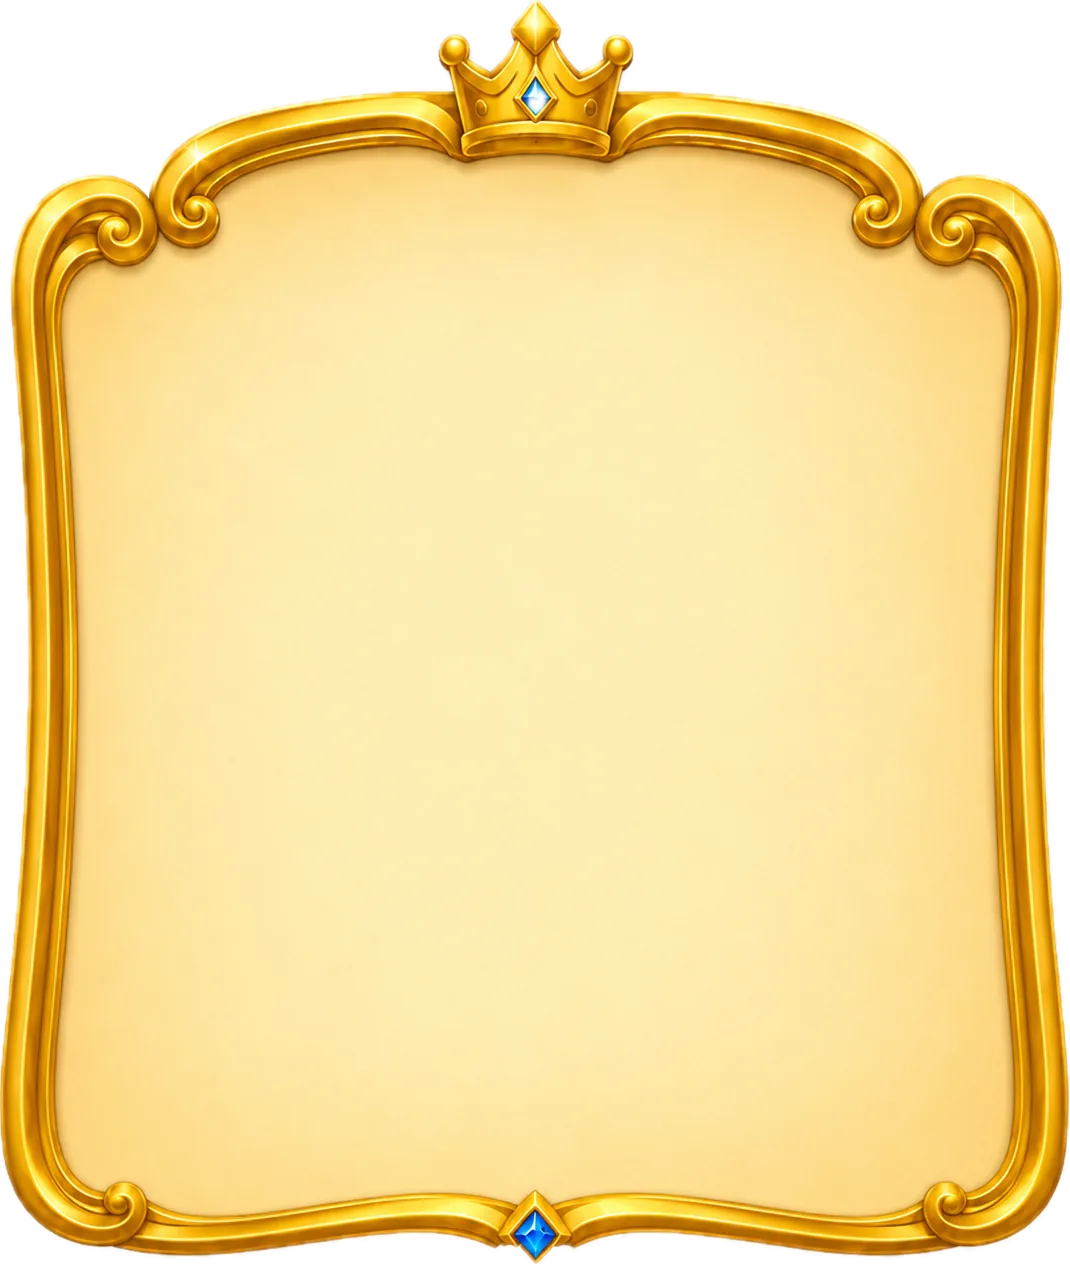
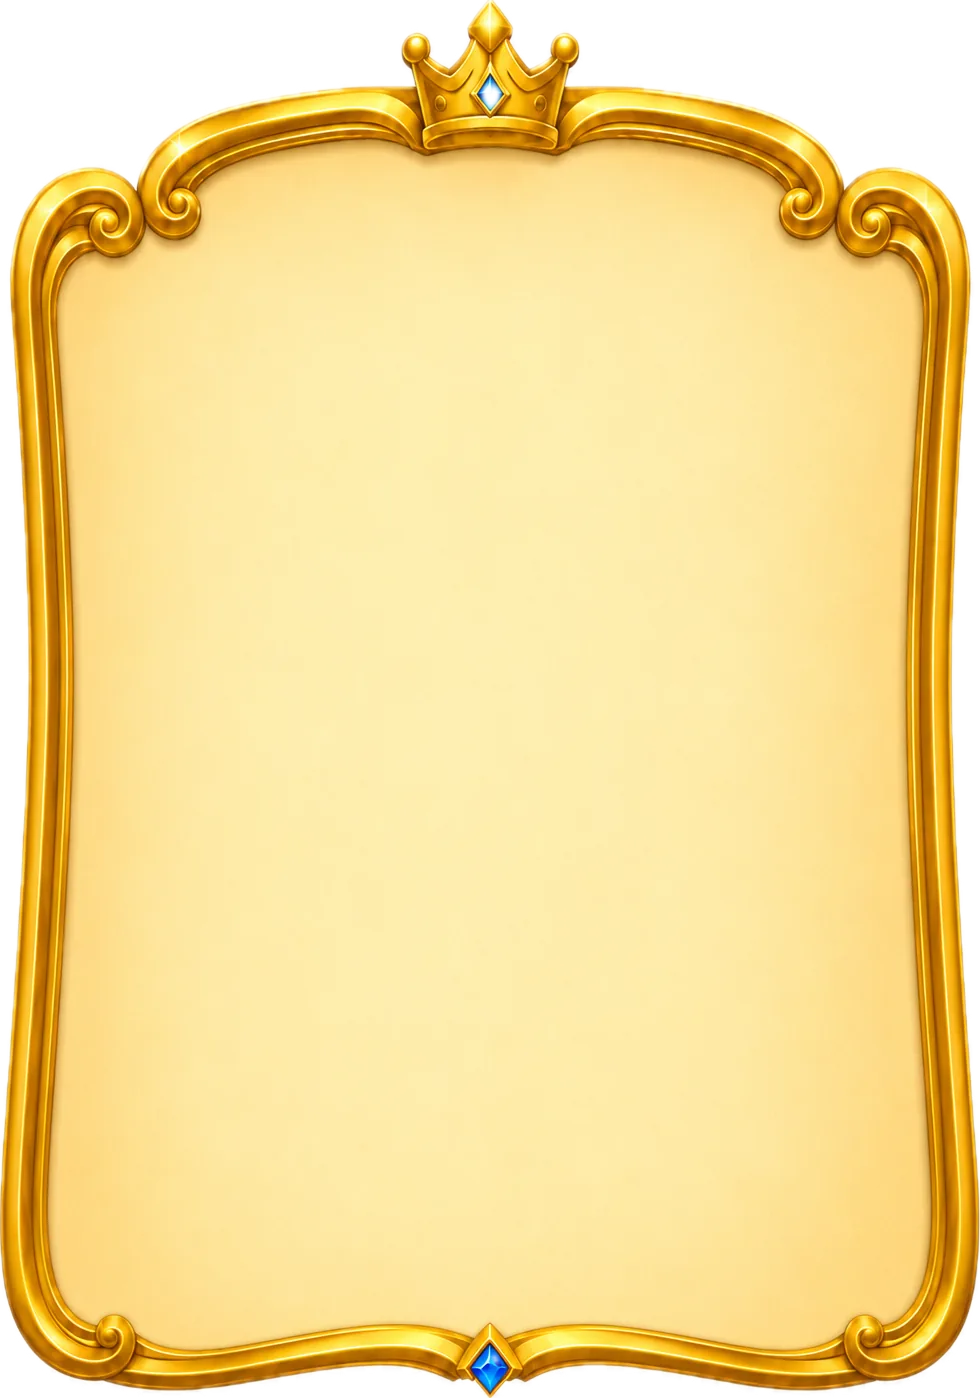
assets(landing): update frame asset to v3 proportions (980x1398)
Founder regenerated design/landing-slides/bg-slides.png again (was
1070x1264 in the previous commit). Re-optimized to .png+.webp+.avif,
updated slide-shell.tsx's aspect ratio and width-budget multiplier to
match (0.8465 -> 0.7010). Verified no scroll at 375x667, 390x844,
390x700; 21/21 tests, tsc clean.

Wolfcito 🐾 @akawolfcito

Changed region(s): [[0.0, 0.0, 1.0, 1.0]]

diff --git a/apps/landing/src/components/onboarding/slide-shell.tsx b/apps/landing/src/components/onboarding/slide-shell.tsx
@@ -5,10 +5,10 @@ import { MOBILE_SCENE_SRC, DESKTOP_SCENE_SRC, FRAME_SRC } from "@/lib/onboarding
 /**
  * Shared visual chrome for every onboarding state (4 slides + the
  * returning-visitor welcome): full-bleed scene behind a fixed-aspect-ratio
- * gold frame, matching the frame PNG's native 1070:1264 proportions (v2
- * asset, founder-updated 2026-07-04 — was 1018:1768, notably taller) so
- * its ornate border never distorts. Content scrolls inside the frame if
- * a slide's copy runs long, rather than the frame stretching to fit it.
+ * gold frame, matching the frame PNG's native 980:1398 proportions (v3
+ * asset, founder-updated 2026-07-04 — v1 was 1018:1768, v2 was 1070:1264)
+ * so its ornate border never distorts. Content scrolls inside the frame
+ * if a slide's copy runs long, rather than the frame stretching to fit it.
  */
 export function SlideShell({
   topSlot,
@@ -62,8 +62,8 @@ export function SlideShell({
         <div
           className="relative"
           style={{
-            aspectRatio: "1070 / 1264",
-            width: "min(100%, calc(54dvh * 0.8465))",
+            aspectRatio: "980 / 1398",
+            width: "min(100%, calc(54dvh * 0.7010))",
             height: "auto",
           }}
         >
@@ -76,7 +76,7 @@ export function SlideShell({
         {ctaSlot ? (
           <div
             className="w-full"
-            style={{ maxWidth: "min(100%, calc(54dvh * 0.8465))" }}
+            style={{ maxWidth: "min(100%, calc(54dvh * 0.7010))" }}
           >
             {ctaSlot}
           </div>
